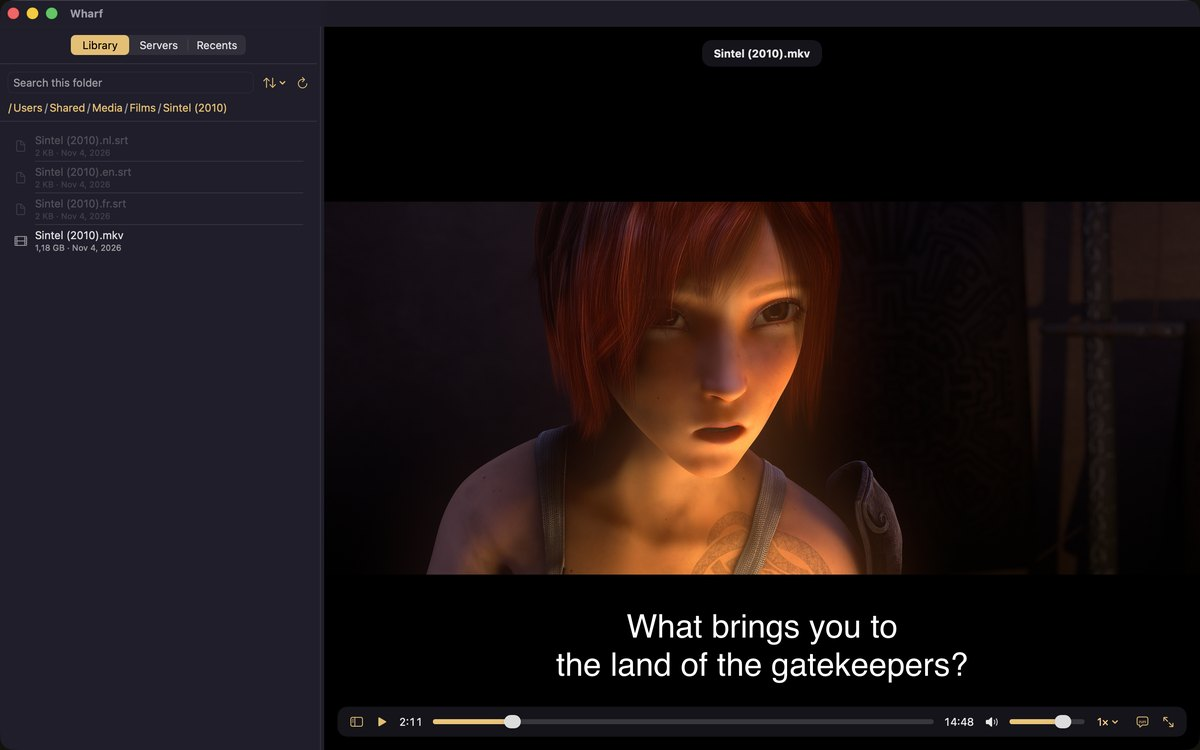
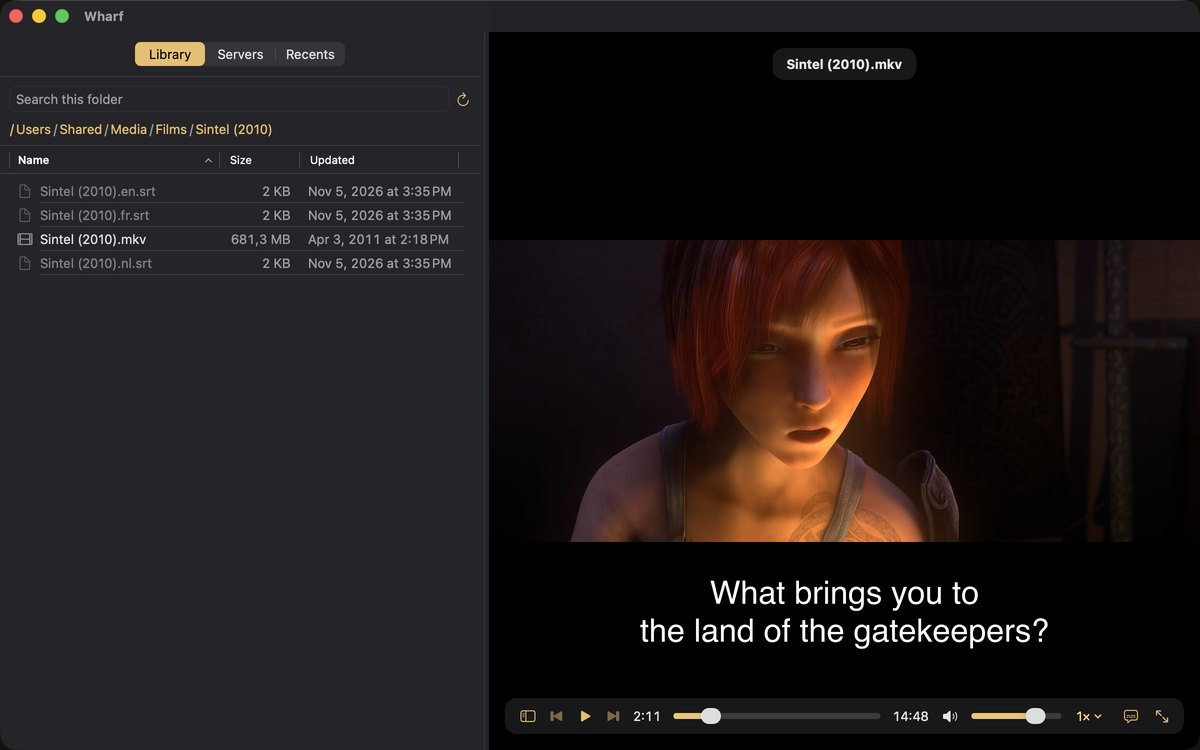
docs: new app screenshot with the Library table
Retaken from the real app streaming Sintel over SFTP, showing the Name,
Size and Updated columns and the previous/next buttons.

diff --git a/site/index.html b/site/index.html
@@ -57,7 +57,7 @@
     </div>
   </div>
   <figure class="intro__media" data-reveal style="--i:3">
-    <img src="assets/wharf-window-1800.jpg" srcset="assets/wharf-window-1200.jpg 1200w, assets/wharf-window-1800.jpg 1800w" sizes="(max-width: 40rem) 100vw, calc(100vw - 56px)" width="1800" height="1125" alt="The Wharf window: the Library sidebar lists Sintel and three subtitle files in /Users/Shared/Media/Films on the server, and the film plays beside it, paused on the English subtitle “What brings you to the land of the gatekeepers?”" loading="lazy" decoding="async">
+    <img src="assets/wharf-window-1800.jpg" srcset="assets/wharf-window-1200.jpg 1200w, assets/wharf-window-1800.jpg 1800w" sizes="(max-width: 40rem) 100vw, calc(100vw - 56px)" width="1800" height="1125" alt="The Wharf window: the Library sidebar is a table with Name, Size and Updated columns, listing Sintel and three subtitle files in /Users/Shared/Media/Films on the server. The film plays beside it, paused on the English subtitle “What brings you to the land of the gatekeepers?”, with previous and next buttons beside play in the controls." loading="lazy" decoding="async">
   </figure>
 </section>
 

diff --git a/README.md b/README.md
@@ -23,7 +23,7 @@
 </p>
 
 <p align="center">
-  <img src="docs/images/wharf-player.png" width="900" alt="Wharf playing Sintel from an SFTP server, paused on an English subtitle, with the Library sidebar showing the film and three subtitle files in the server's folder">
+  <img src="docs/images/wharf-player.png" width="900" alt="Wharf playing Sintel from an SFTP server, paused on an English subtitle, with the Library sidebar showing the film and three subtitle files in a table with Name, Size and Updated columns">
 </p>
 
 <p align="center"><sub>Shown: <a href="https://durian.blender.org">Sintel</a> © Blender Foundation, CC BY 3.0, streamed from an SFTP server.</sub></p>
